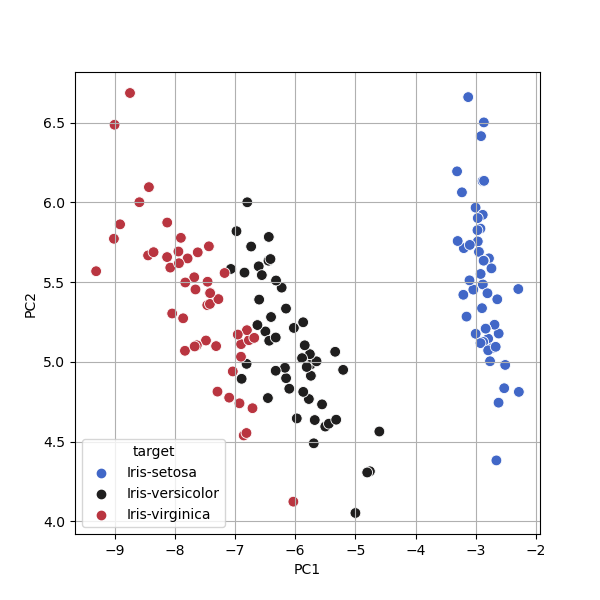
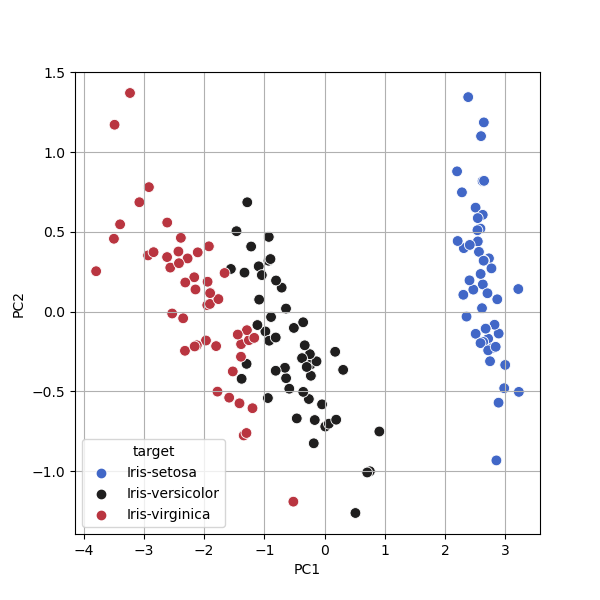
commit

diff --git a/problem3.py b/problem3.py
@@ -27,7 +27,7 @@ def PCA(X , num_components):
     
     ### Fill in ################################
     B         = eigen_vectors[:, :num_components]
-    Z         = np.matmul(np.transpose(B), X)
+    Z         = np.matmul(np.transpose(B), X_shifted)
     ############################################    
     
     return Z
